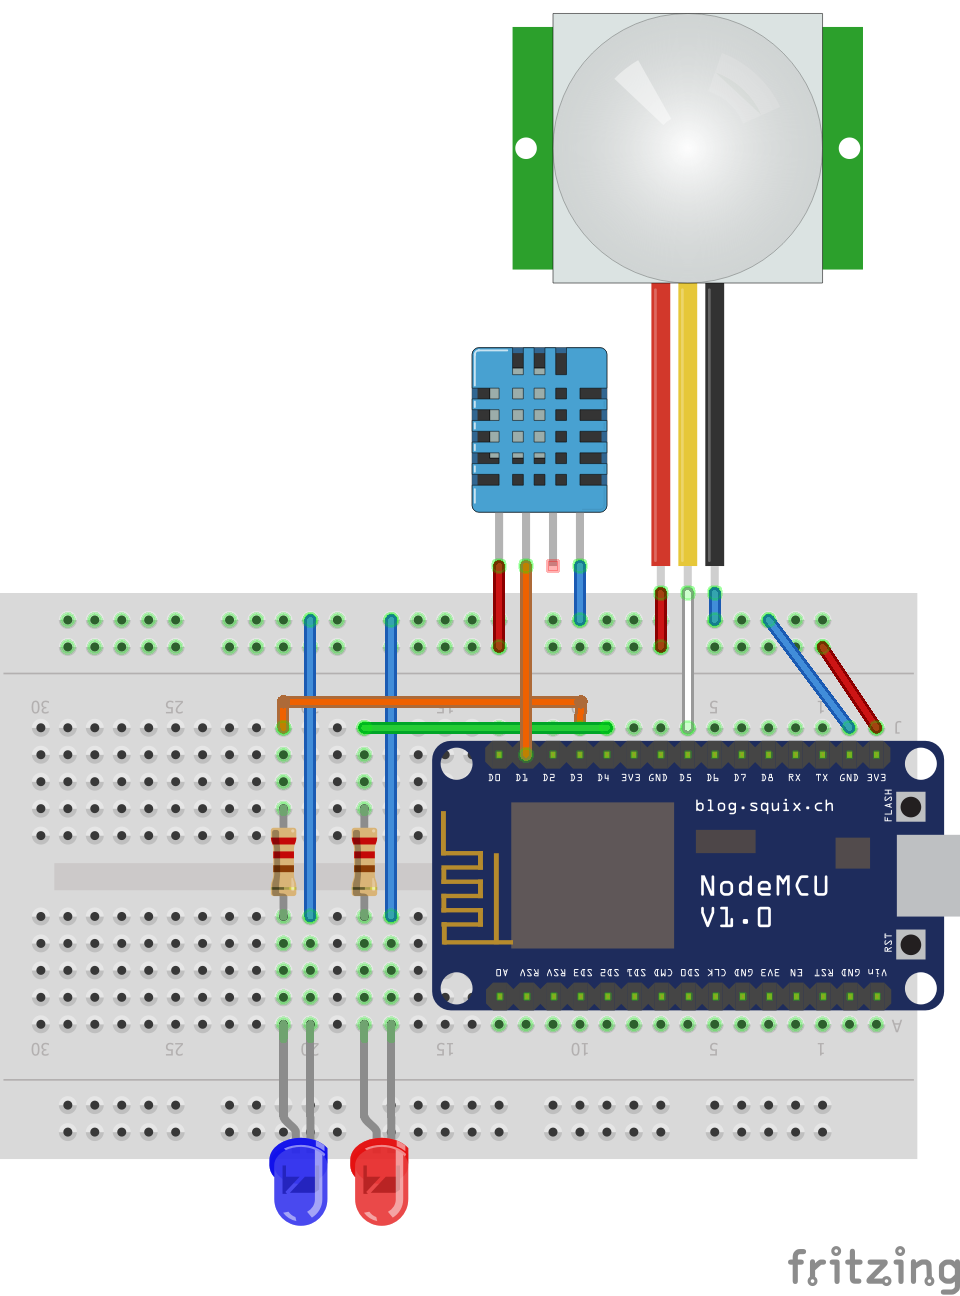
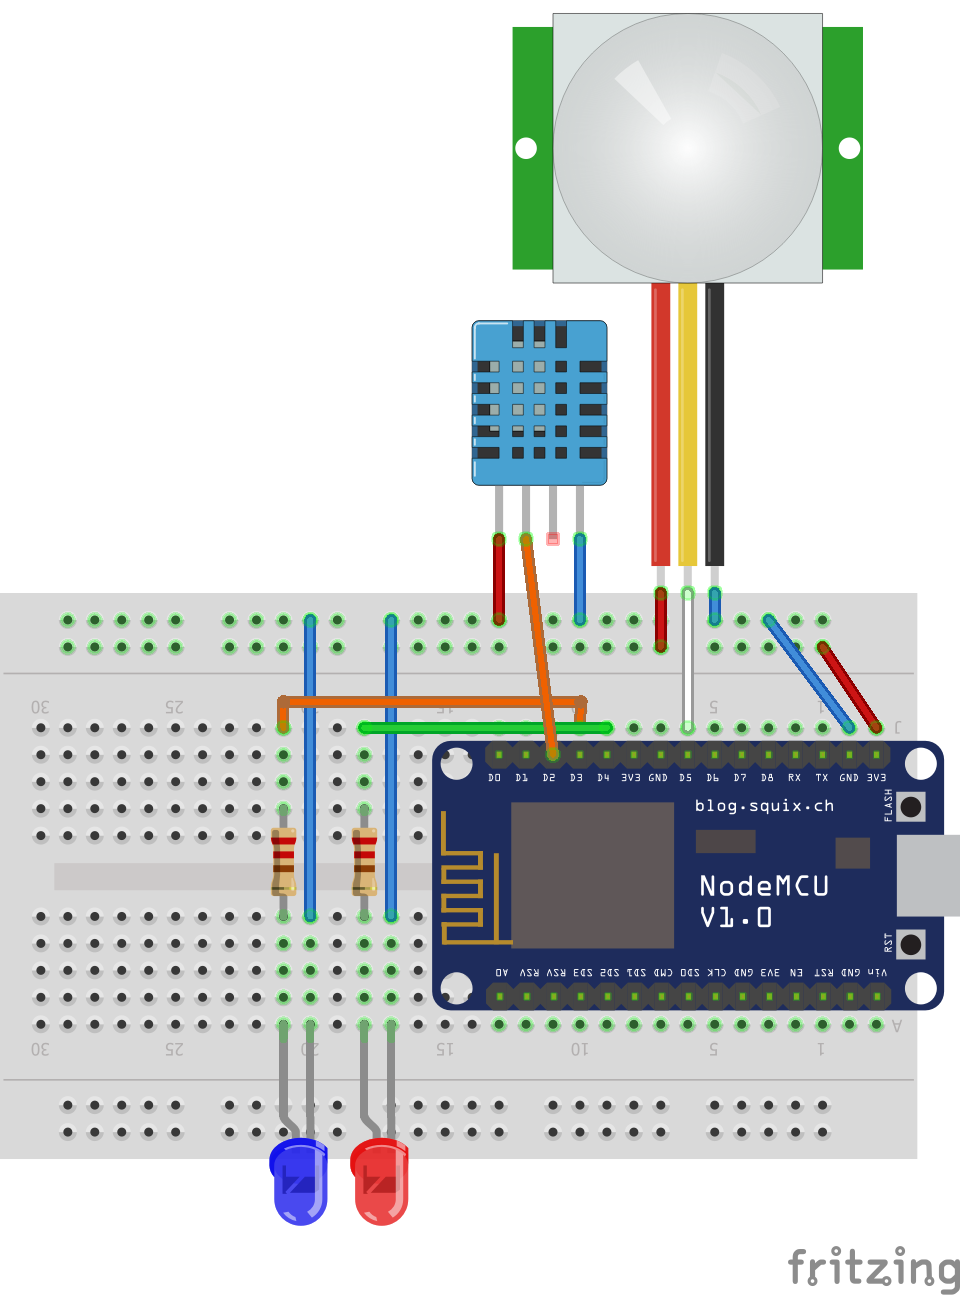
fix in the fritzing sketch

Changed region(s): [[0.4688, 0.2469, 0.6562, 0.5864]]

diff --git a/README.md b/README.md
@@ -1,5 +1,12 @@
 # Home-security-device
 
+<h2>Wiring:<h2>
+
+<p align="center">
+	<img src="sketch.png" width="450"/>
+</p>
+
+
 # Binary with firmware:
 	nodemcu-master-11-modules-2016-12-18-08-35-29-float.bin
 
@@ -11,7 +18,3 @@
 
 # Fritzing sketch:
 	sketch.fzz
-
-<p align="center">
-  <img src="sketch.png" width="250"/>
-</p>
